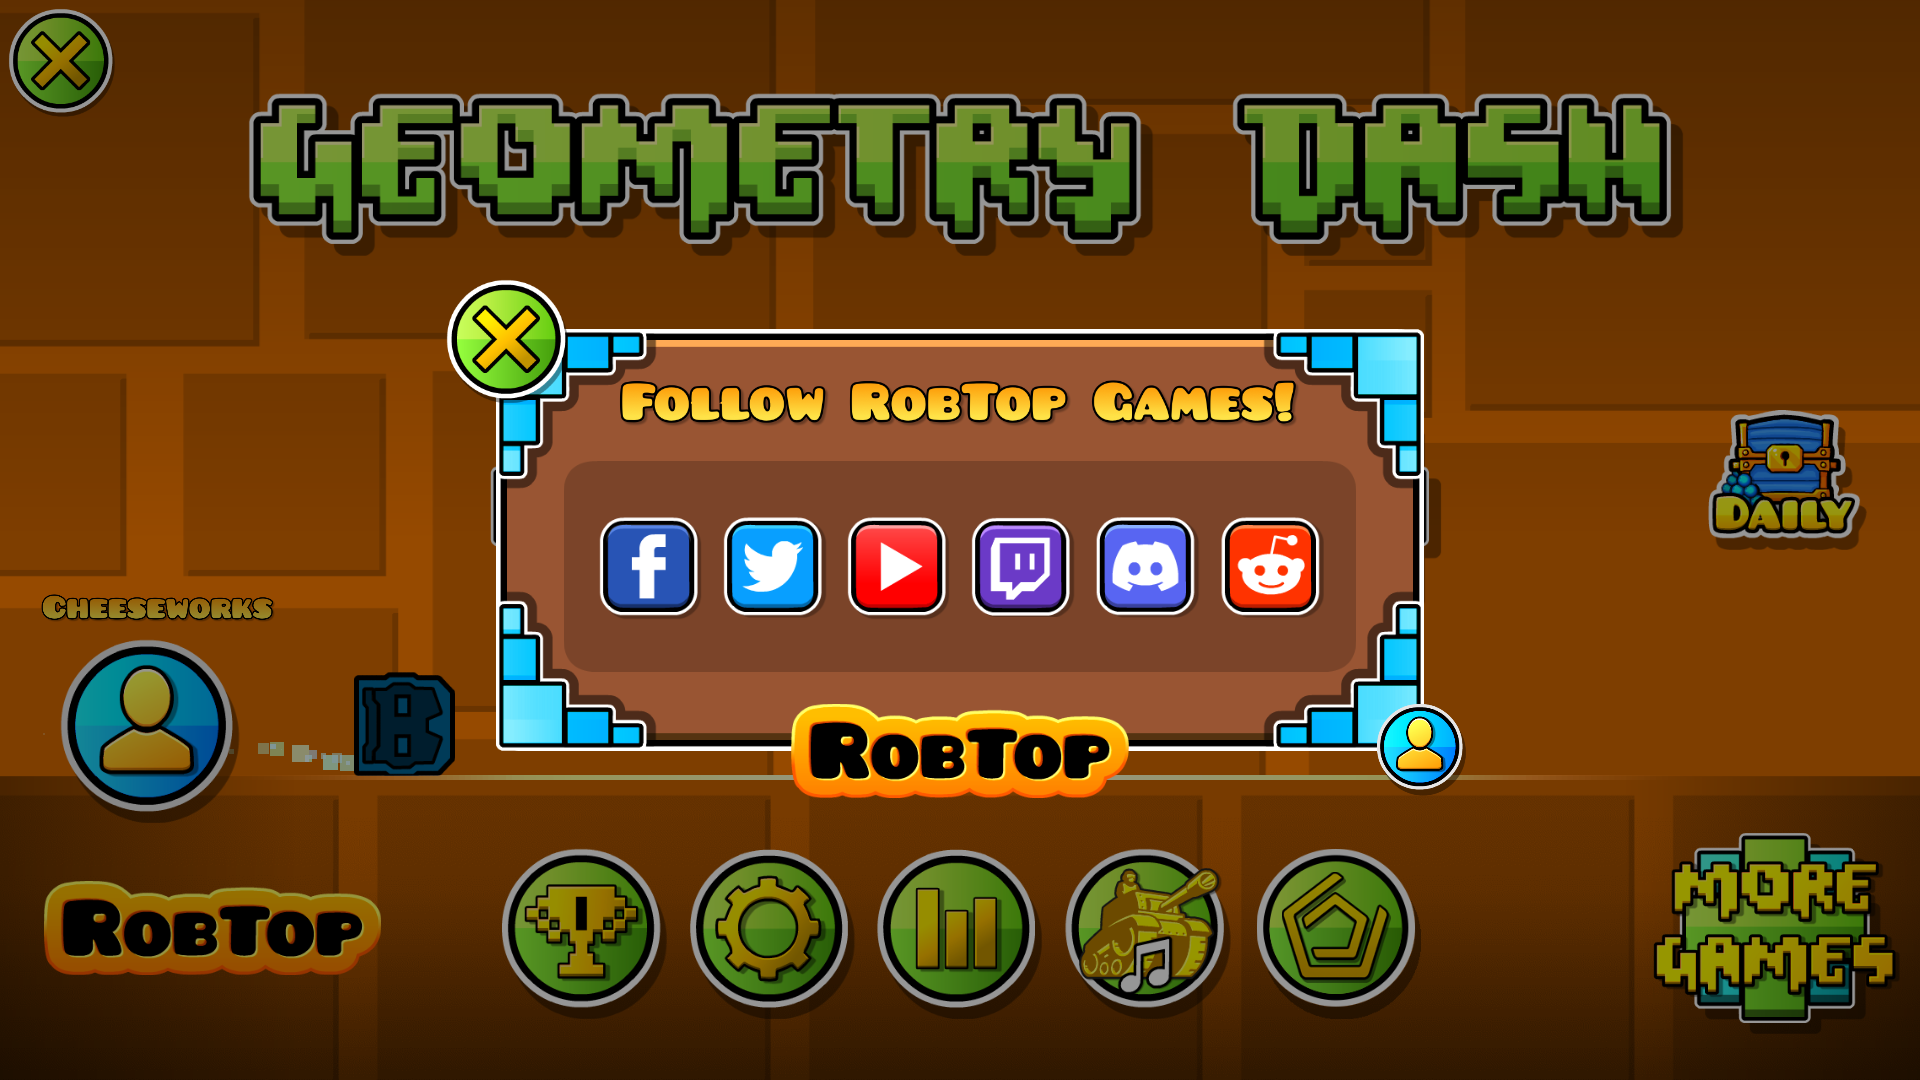
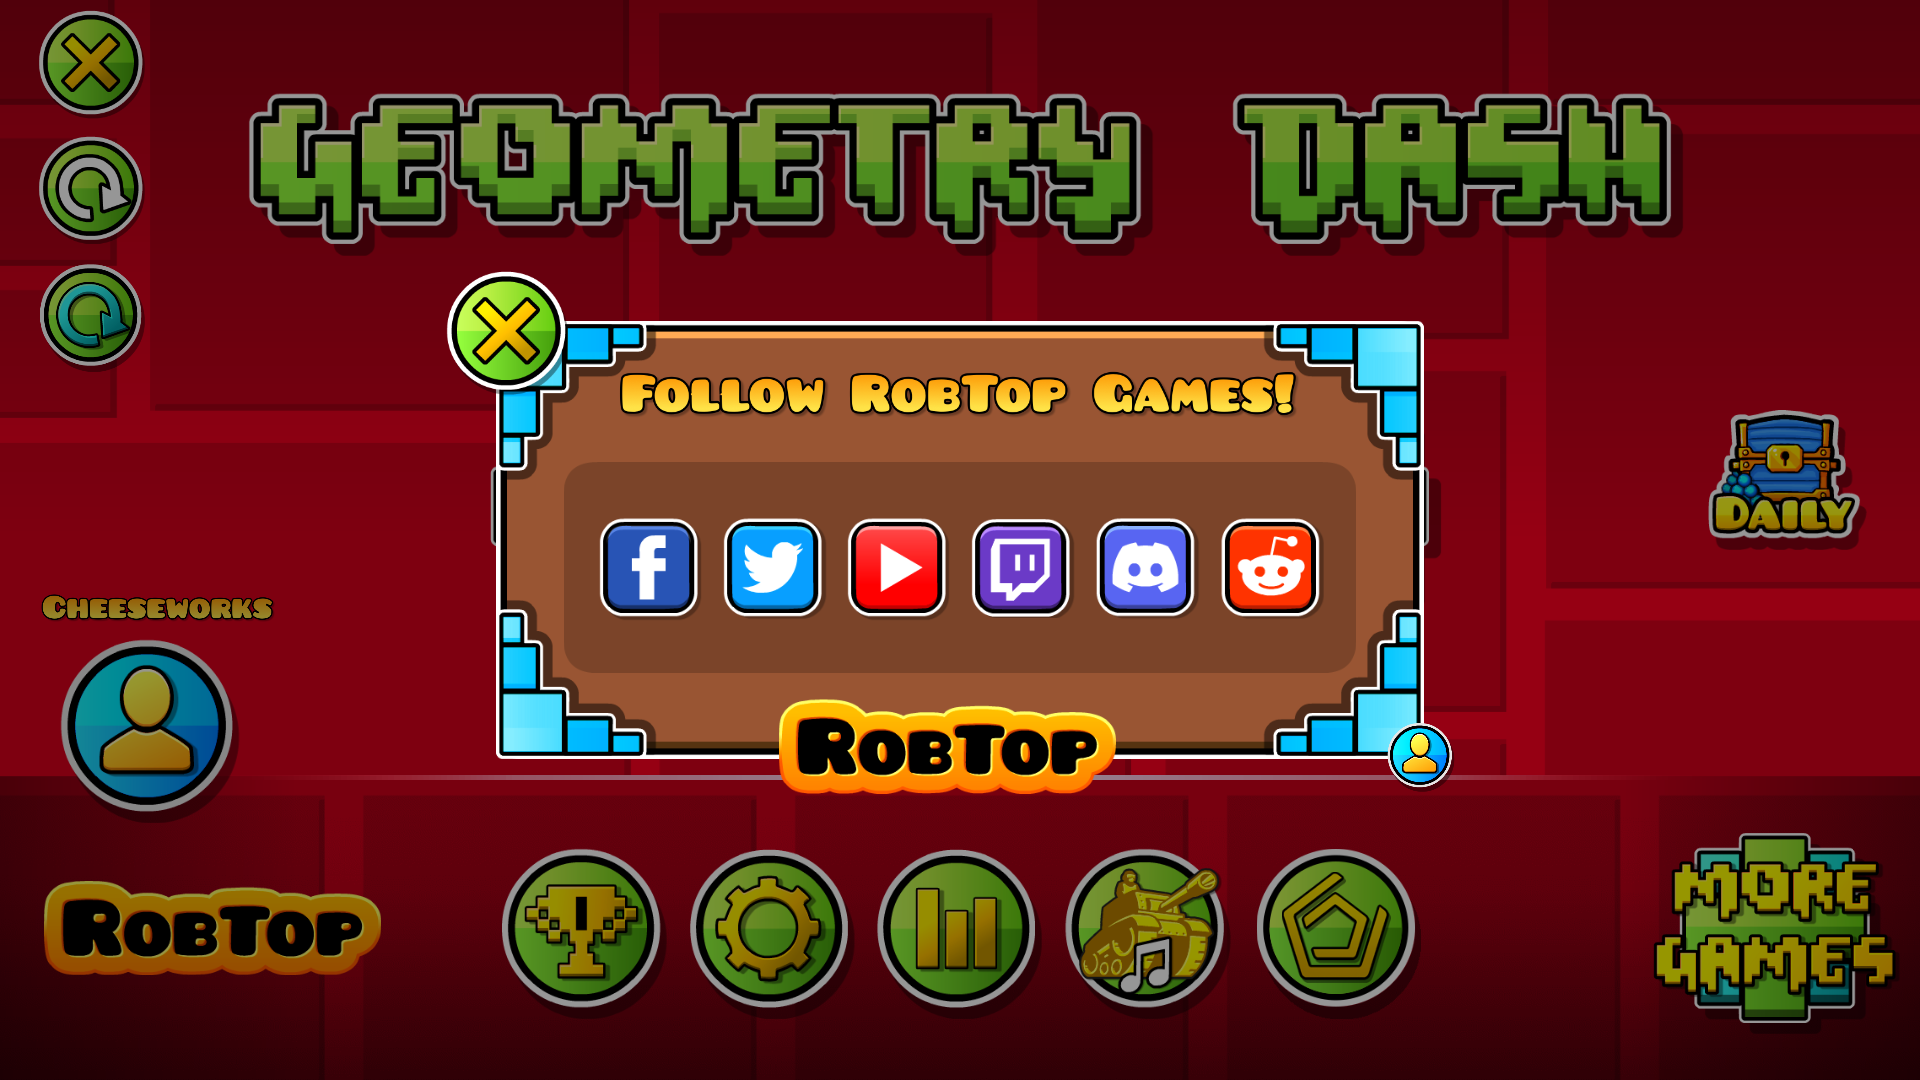
test

diff --git a/src/SocialsPopup.cpp b/src/SocialsPopup.cpp
@@ -149,10 +149,10 @@ bool SocialsPopup::init() {
     robBtn->setID("robtop-games-btn");
     robBtn->setPosition({ bg->getPositionX(), 0.f });
 
-    m_buttonMenu->addChild(robBtn);
+    m_buttonMenu->addChild(robBtn, 1);
 
     auto robProfileBtnSprite = CCSprite::createWithSpriteFrameName("GJ_profileButton_001.png");
-    robProfileBtnSprite->setScale(0.375f);
+    robProfileBtnSprite->setScale(0.5f);
 
     auto robProfileBtn = CCMenuItemExt::createSpriteExtra(
         robProfileBtnSprite,
@@ -161,9 +161,9 @@ bool SocialsPopup::init() {
         }
     );
     robProfileBtn->setID("robtop-profile-btn");
-    robProfileBtn->setPosition({ m_mainLayer->getScaledContentWidth() - 1.25f, 1.25f });
+    robProfileBtn->setPosition({ m_mainLayer->getScaledContentWidth() - 17.5f, 17.5f });
 
-    m_buttonMenu->addChild(robProfileBtn);
+    m_buttonMenu->addChild(robProfileBtn, 9);
 
     return true;
 };

diff --git a/about.md b/about.md
@@ -11,7 +11,7 @@ This mod improves RobTop's social media UI on the main menu by moving all of Rob
 ---
 
 ### Use?
-You can now <cg>stop misclicking those ole' buttons</c>! Open the pop-up by <cy>clicking the new "RobTop" button</c> in that same corner. Clicking each social icon in the pop-up will also open <cg>a confirmation pop-up</c> asking if you want to proceed.
+You can now <cy>stop misclicking those ole' buttons</c>! Open the pop-up by <cy>clicking the new "RobTop" button</c> in that same corner. Clicking each social icon in the pop-up will also open <cg>a confirmation pop-up</c> asking if you want to proceed.
 
 ---
 

diff --git a/changelog.md b/changelog.md
@@ -1,7 +1,7 @@
 # v1.1.0 
 - Ported to Geometry Dash version `2.2081`
   - Bumped Geode loader support to `v5.0.0`
-- Added in-game profile button to socials pop-up
+- Added in-game RobTop profile button to socials pop-up
 - Internal optimizations
 
 # v1.0.2
